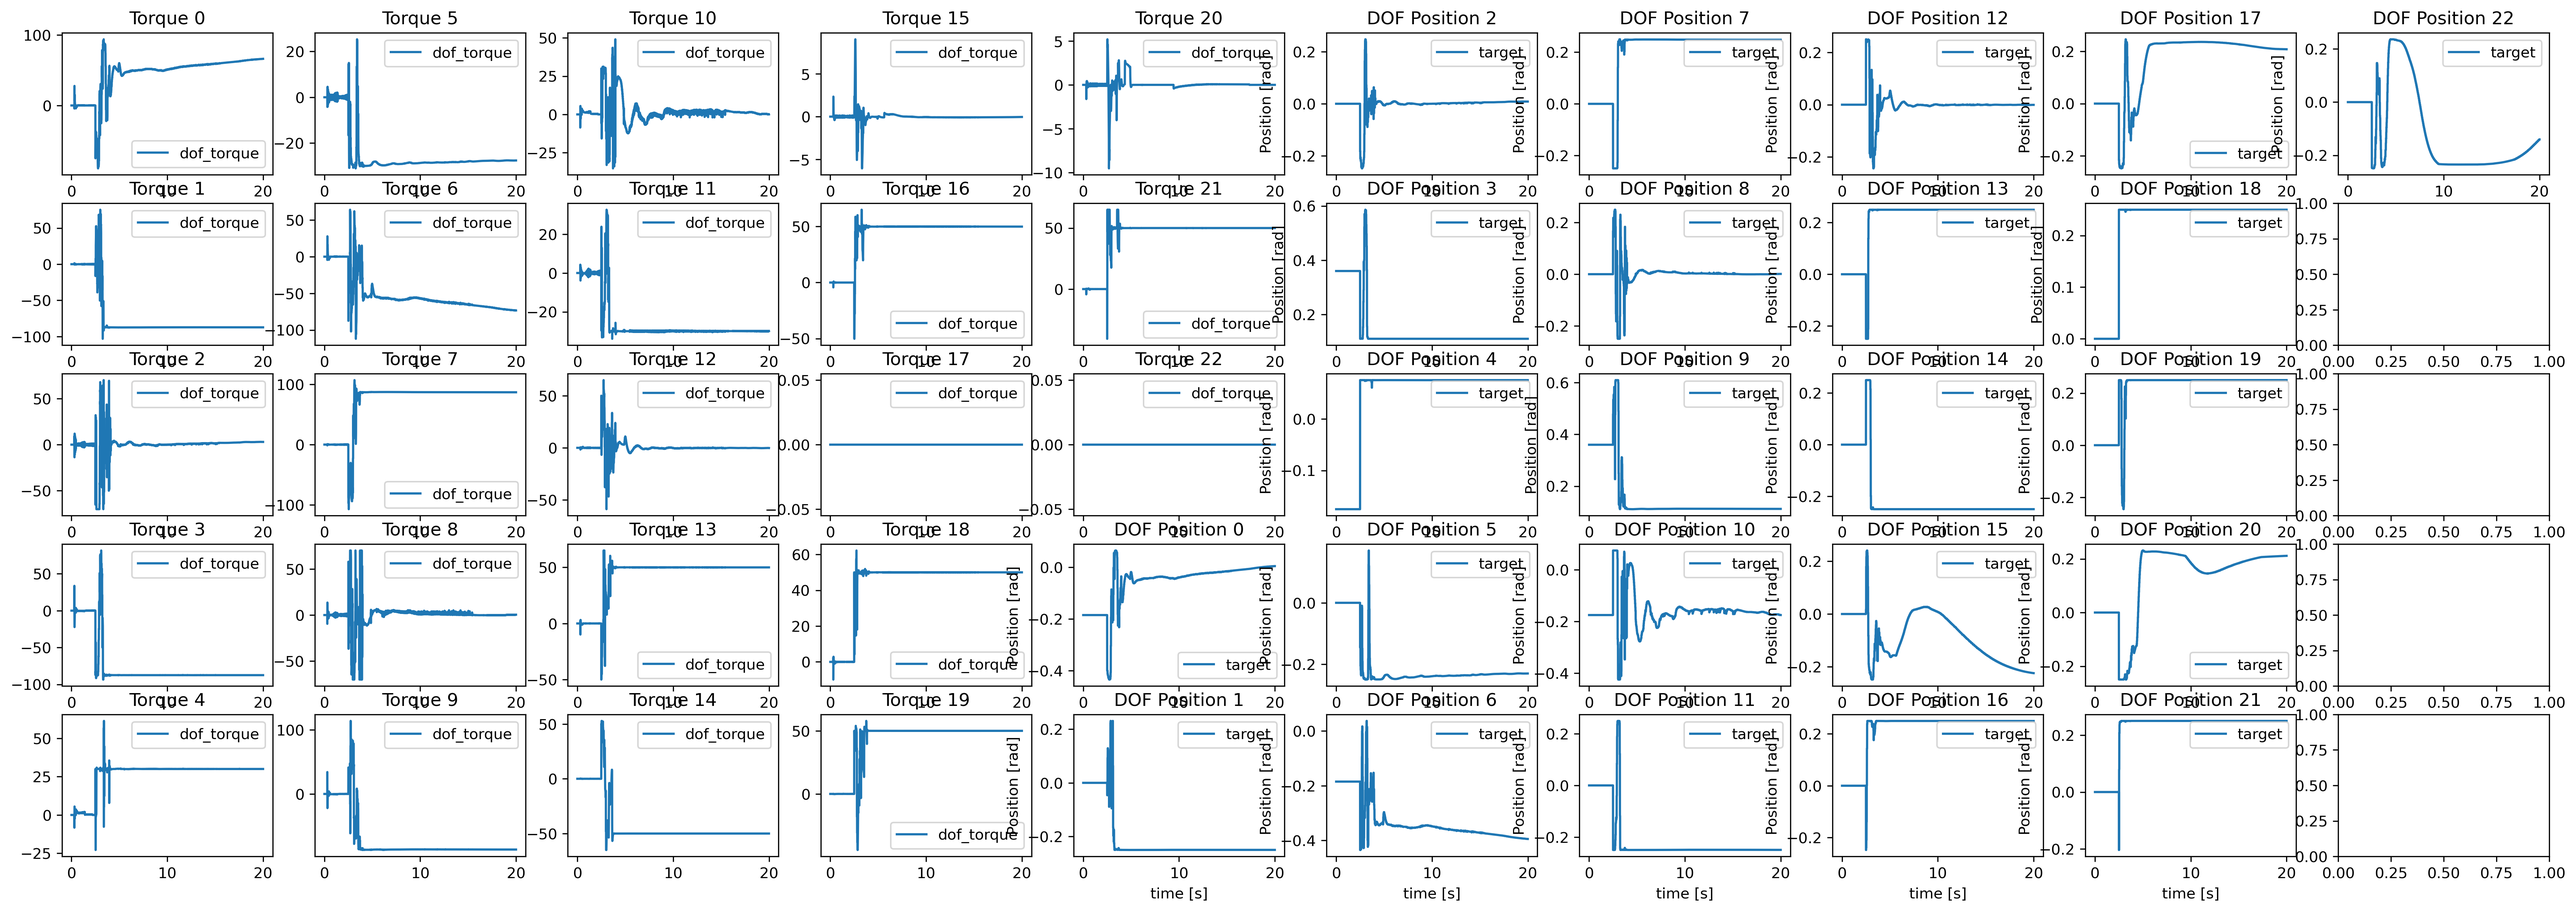
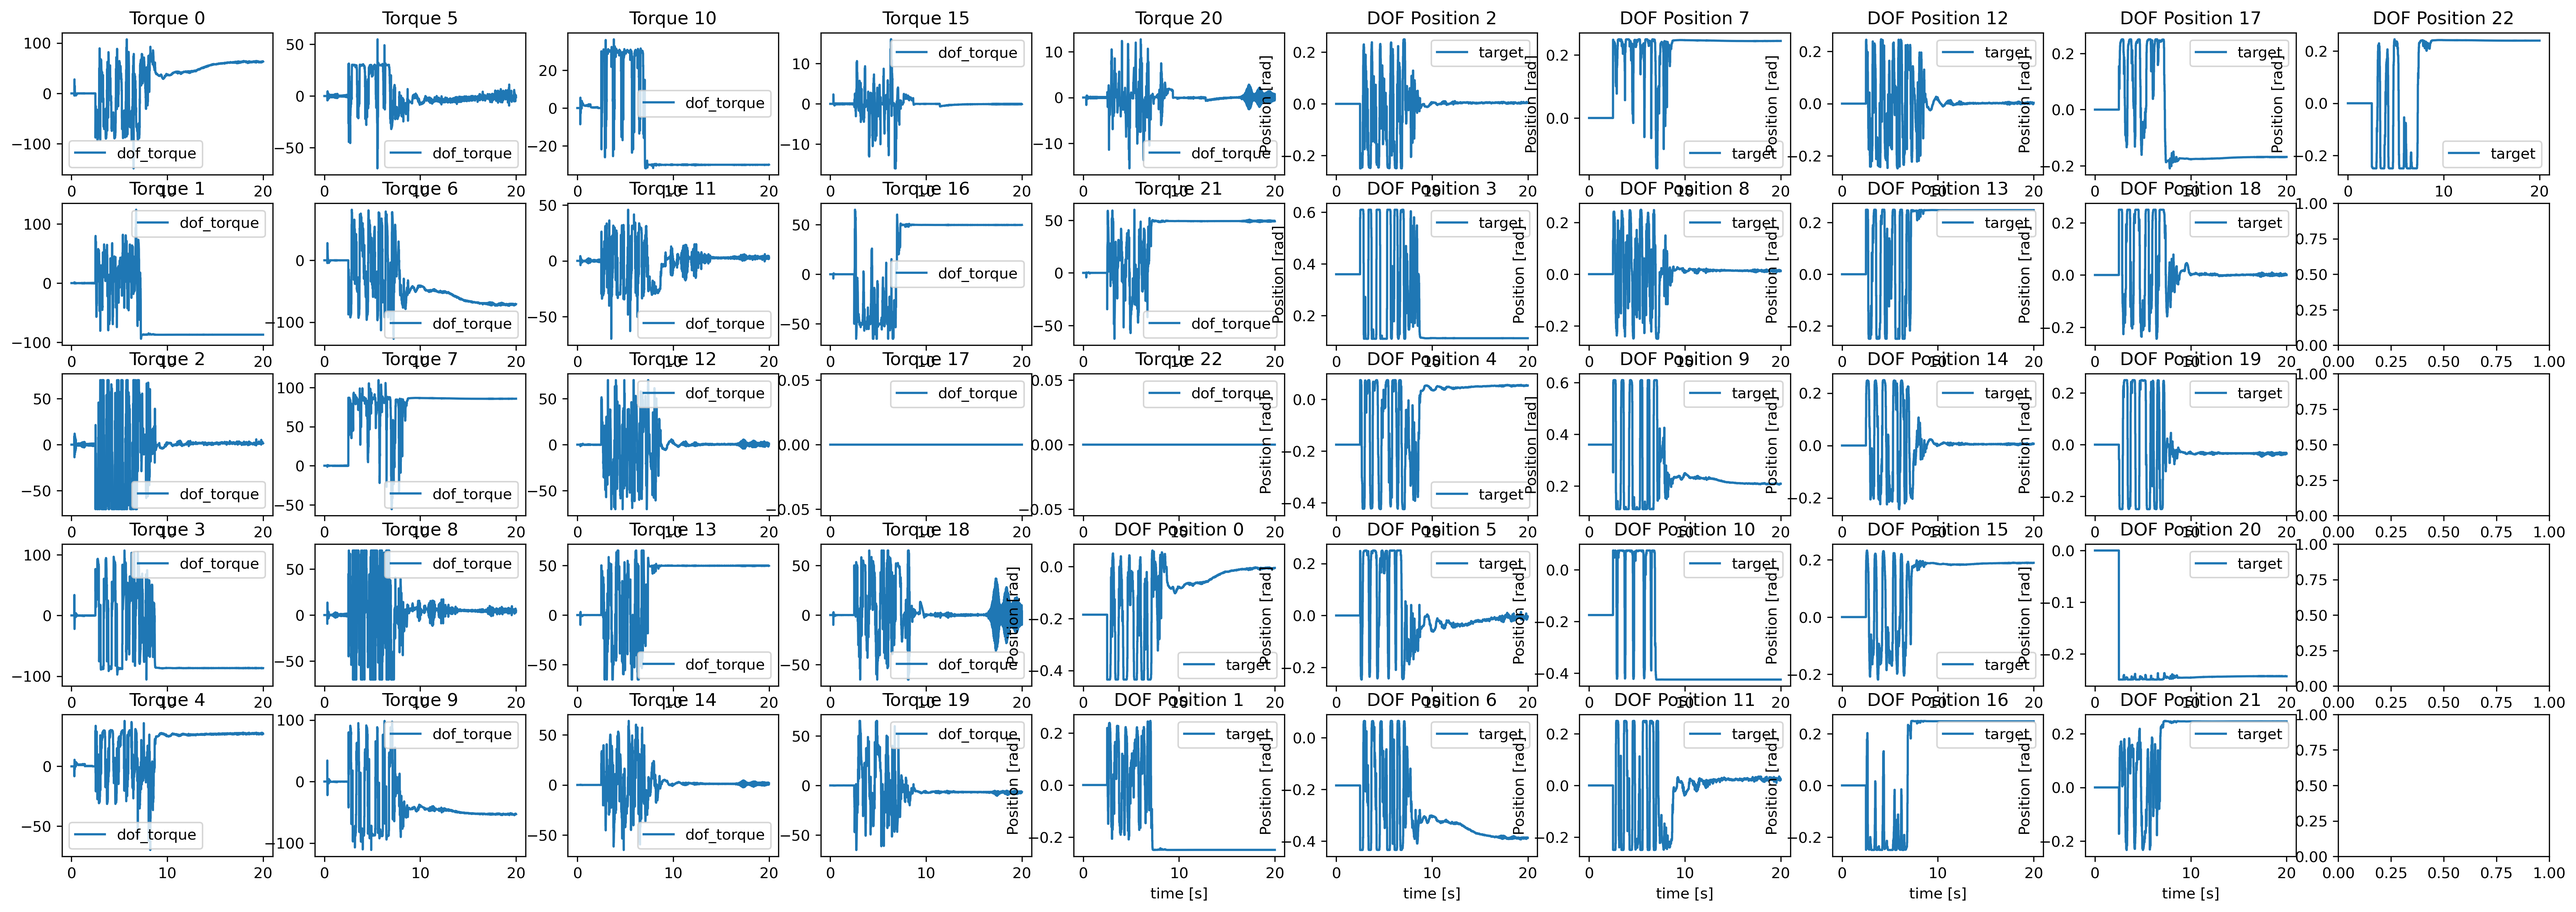
基线版本

diff --git a/legged_gym/legged_gym/scripts/sim2sim.py b/legged_gym/legged_gym/scripts/sim2sim.py
@@ -180,7 +180,7 @@ def run_mujoco(policy, cfg):
 
     # mujoco.set_mjcb_control(my_controller)
     
-    viewer = mujoco_viewer.MujocoViewer(model, data, panel_num=1)
+    viewer = mujoco_viewer.MujocoViewer(model, data)
     #viewer.launch(model, data) 
 
     target_q = np.zeros((cfg.env.num_actions), dtype=np.double)
@@ -282,11 +282,6 @@ def run_mujoco(policy, cfg):
         # else:
         #     target_q_filter = action * cfg.control.action_scale
 
-        # # Generate PD control
-        # target_q_filter[12] = -target_q_filter[9] * 0.5 + 0.2
-        # target_q_filter[15] = -0.26175
-        # target_q_filter[17] = -target_q_filter[3] * 0.5 + 0.2 
-        # target_q_filter[20] = -0.26175
         tau = pd_control(target_q + q, q, cfg.robot_config.kps,
                         target_dq, dq, cfg.robot_config.kds)  # Calc torques
 
@@ -415,7 +410,7 @@ def run_mujoco(policy, cfg):
             }
             )
         else:
-            logger._plot(save_path="/home/casbot/ZHZ_ws/HoST/legged_gym/legged_gym/plots/fig3.png")
+            logger._plot(save_path="/home/casbot/ZHZ_ws/HoST/legged_gym/legged_gym/plots/fig4.png")
 
         if(render_index % 2 ==0):
             viewer.render()
@@ -454,28 +449,28 @@ if __name__ == '__main__':
                 mujoco_model_path = f'{LEGGED_GYM_ROOT_DIR}/resources/robots/Mrobot/mjcf/mjmodel_terrain.xml'
             else:
                 mujoco_model_path = f'{LEGGED_GYM_ROOT_DIR}/resources/robots/02/mjmodel02fb.xml'
-            sim_duration = 20.0
+            sim_duration = 25.0
             # low level control frequency (In sim 200Hz, in real robot 500Hz)
             dt = 0.005
             # policy inference frequency 50Hz
             decimation = 4
 
         class robot_config:
-            kps = np.array([350, 350, 350, 350, 120, 120, \
-                            350, 350, 350, 350, 120, 120,
+            kps = np.array([360, 350, 350, 350, 110, 110, \
+                            360, 350, 350, 350, 110, 110,
                             200,
                             200, 200, 0, 200, 0,
                             200, 200, 0, 200, 0], dtype=np.double)
-            kds = np.array([4.0, 4.0, 4.0, 4.0, 2.0, 2.0,  \
-                            4.0, 4.0, 4.0, 4.0, 2.0, 2.0,
+            kds = np.array([4.0, 4.0, 4.0, 4.0, 1.9, 1.9,  \
+                            4.0, 4.0, 4.0, 4.0, 1.9, 1.9,
                             5.0,
                             4.0, 4.0, .5, 4.0, 0.0,
                             4.0, 4.0, .5, 4.0, 0.0], dtype=np.double)
         
             # tau_limit = np.array([120., 120., 120., 120.,  90.,  64.,   \
             #                       120., 120., 120., 120.,  90.,  64.], dtype=np.double)
-            tau_limit = np.array([150., 150., 70., 150.,  70.,  70.,   \
-                                  150., 150., 70., 150.,  70.,  70.,
+            tau_limit = np.array([150., 150., 150., 250.,  70.,  70.,   \
+                                  150., 150., 150., 250.,  70.,  70.,
                                   70,
                                   65., 65., 16., 65., 16.,
                                   65., 65., 16., 65., 16.], dtype=np.double)

diff --git a/legged_gym/legged_gym/envs/CAS02/CAS02_config_ground.py b/legged_gym/legged_gym/envs/CAS02/CAS02_config_ground.py
@@ -216,7 +216,7 @@ class CAS02Cfg( LeggedRobotCfg ):
         right_foot_displacement_sigma = -2
         hip_yaw_var_sigma = -2
         target_dof_pos_sigma = -0.1
-        post_task = True
+        post_task = False
         
         class scales:
             # regularization reward
@@ -237,15 +237,15 @@ class CAS02Cfg( LeggedRobotCfg ):
             style_shoulder_roll_deviation = -2.5
             style_left_foot_displacement = 3.0
             style_right_foot_displacement = 3.0
-            style_knee_deviation = -0.25
+            style_knee_deviation = -0.5
             style_shank_orientation = 10
             style_ground_parallel = 20
             style_feet_distance = -10
             style_style_ang_vel_xy = 1
 
             # post-task reward
-            target_ang_vel_xy = 13
-            target_lin_vel_xy = 13
+            target_ang_vel_xy = 13.0
+            target_lin_vel_xy = 13.0
             target_feet_height_var = 2.5
             target_target_upper_dof_pos = 10
             target_target_orientation = 10

diff --git a/legged_gym/legged_gym/scripts/record_config.py b/legged_gym/legged_gym/scripts/record_config.py
@@ -1,0 +1,28 @@
+import os
+from legged_gym import LEGGED_GYM_ENVS_DIR
+
+def record_config(log_root, name="a1_amp"):
+    log_dir=log_root
+    os.makedirs(log_dir, exist_ok=True)
+
+    str_config = name + '_config.txt'
+    file_path1=os.path.join(log_dir, str_config)
+    file_path2=os.path.join(log_dir, 'legged_robot_config.txt')
+    
+    root1 = name.split('_')[0]
+
+    root_path1 = os.path.join(LEGGED_GYM_ENVS_DIR, root1, 'CAS02_config_ground.py')
+    #root_path1 = os.path.join('/home/casbot/ZHZ_ws/HoST/legged_gym/legged_gym/envs/CAS02/CAS02_config_ground.py')
+    root_path2 = os.path.join(LEGGED_GYM_ENVS_DIR, 'base', 'host_ground.py')
+
+    with open(root_path1, 'r', encoding='utf-8') as file:
+        content = file.read()
+
+    with open(file_path1, 'w', encoding='utf-8') as file:
+        file.write(content)
+
+    with open(root_path2, 'r',encoding='utf-8') as file:
+        content = file.read()
+
+    with open(file_path2, 'w', encoding='utf-8') as file:
+        file.write(content)

diff --git a/legged_gym/legged_gym/scripts/train.py b/legged_gym/legged_gym/scripts/train.py
@@ -7,16 +7,18 @@ import isaacgym
 from legged_gym.envs import *
 from legged_gym.utils import get_args, task_registry
 import torch
+from record_config import record_config
 
 
 # python legged_gym/legged_gym/scripts/train.py --task CAS02_ground --headless
-# tensorboard --logdir=/home/casbot/ZHZ_ws/HoST/legged/home/casbot/ZHZ_ws/HoST/legged_gym/logs
+# tensorboard --logdir /home/casbot/ZHZ_ws/HoST/legged_gym/logs
 
 
 
 def train(args):
     env, env_cfg = task_registry.make_env(name=args.task, args=args)
-    ppo_runner, train_cfg = task_registry.make_alg_runner(env=env, env_cfg=env_cfg, name=args.task, args=args)
+    ppo_runner, train_cfg, log_dir = task_registry.make_alg_runner(env=env, env_cfg=env_cfg, name=args.task, args=args)
+    record_config(log_root=log_dir, name=args.task)
     ppo_runner.learn(num_learning_iterations=train_cfg.runner.max_iterations, init_at_random_ep_len=train_cfg.runner.init_at_random_ep_len)
 
 if __name__ == '__main__':

diff --git a/legged_gym/legged_gym/scripts/play.py b/legged_gym/legged_gym/scripts/play.py
@@ -32,12 +32,12 @@ def play(args):
     obs = env.get_observations()
 
     train_cfg.runner.resume = True
-    ppo_runner, train_cfg = task_registry.make_alg_runner(env=env, env_cfg=env_cfg, name=args.task, args=args, train_cfg=train_cfg)
+    ppo_runner, train_cfg, _ = task_registry.make_alg_runner(env=env, env_cfg=env_cfg, name=args.task, args=args, train_cfg=train_cfg)
     policy = ppo_runner.get_inference_policy(device=env.device)
 
     # export policy as a jit module (used to run it from C++)
     if EXPORT_POLICY:
-        path = os.path.join(LEGGED_GYM_ROOT_DIR, 'logs', train_cfg.runner.experiment_name, '1_exported', 'policies')
+        path = os.path.join(LEGGED_GYM_ROOT_DIR, 'logs', train_cfg.runner.experiment_name, '2_exported', 'policies')
         export_policy_as_jit(ppo_runner.alg.actor_critic, path)
         print('Exported policy as jit script to: ', path)
     

diff --git a/legged_gym/legged_gym/utils/task_registry.py b/legged_gym/legged_gym/utils/task_registry.py
@@ -124,7 +124,7 @@ class TaskRegistry():
             resume_path = get_load_path(log_root, load_run=train_cfg.runner.load_run, checkpoint=train_cfg.runner.checkpoint, checkpoint_path=args.checkpoint_path)
             print(f"Loading model from: {resume_path}")
             runner.load(resume_path)
-        return runner, train_cfg
+        return runner, train_cfg, log_dir
 
 # make global task registry
 task_registry = TaskRegistry()
